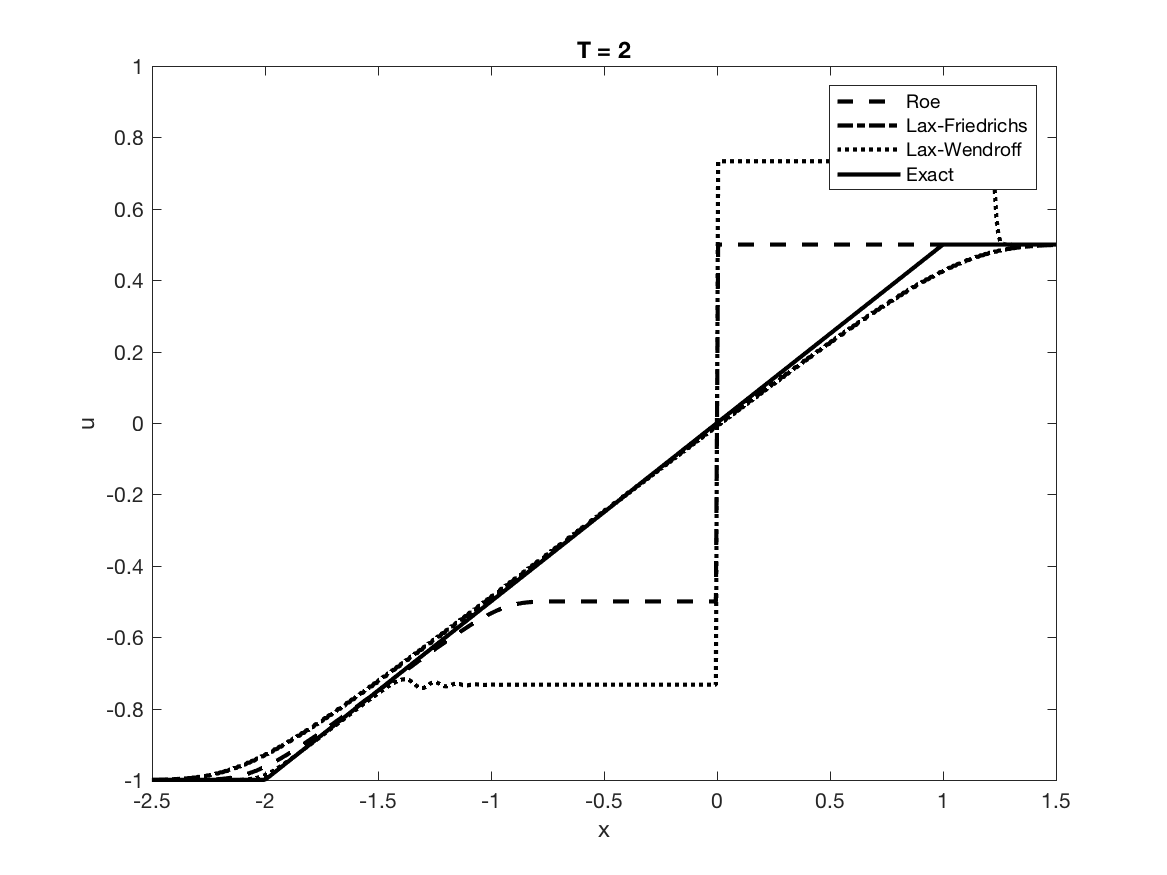
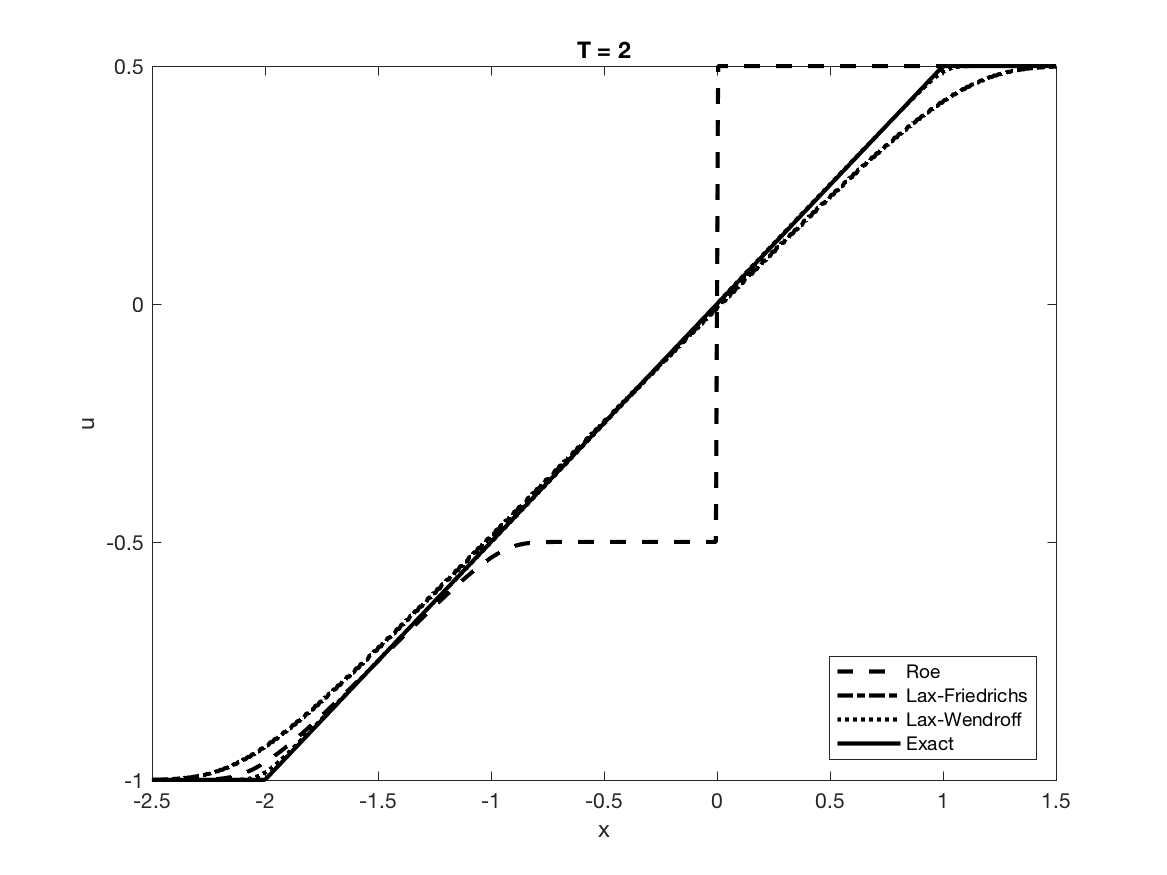
wrote two alternative laxWendroff methods

diff --git a/Homework/H03.m b/Homework/H03.m
@@ -2,7 +2,7 @@
 f = @(u) (0.5*u^2);
 df = @(u) u;
 %u0func = @(x) 1.0*(x <= 0.0) - 0.5*(x > 0.0);
-u0func = @(x) -1.0*(x <= 0.0) + 0.5*(x > 0.0);
+u0func = @(x) -1.0*(x < 0.0) + 0.0*(x == 0.0) + 0.5*(x > 0.0);
 deltaX = 0.01;
 a = -5.0;
 b = 5.0;
@@ -16,9 +16,10 @@ tFinal = 2;
 nTimeSteps = tFinal/deltaT;
 
 uExactFunc = @(x, t) -1.0*(x <= -t) + (x/t)*(x > -t && x < 0.5*t) + 0.5*(x >= 0.5*t);
+%uExactFunc = @(x, t) 1.0*(x <= 0.25*t) - 0.5*(x >= 0.25*t);
 roeSol = roe(f, u0, deltaT, deltaX, nTimeSteps);
 laxFriedrichsSol = laxFriedrichs(f, u0, deltaT, deltaX, nTimeSteps);
-laxWendroffSol = laxWendroff(f, df, u0, deltaT, deltaX, nTimeSteps);
+laxWendroffSol = richtmyer(f, u0, deltaT, deltaX, nTimeSteps);
 
 uExactSol = arrayfun(@(xj) uExactFunc(xj, tFinal), x);
 plot(x, roeSol(nTimeSteps+1,:), 'k--', x, laxFriedrichsSol(nTimeSteps+1,:), 'k-.', x, laxWendroffSol(nTimeSteps+1,:), 'k:', x, uExactSol, 'k-','LineWidth',2);
@@ -27,5 +28,5 @@ ylabel('u');
 %xlim([0.4, 0.6]);
 xlim([-2.5, 1.5]);
 title('T = 2');
-legend('Roe', 'Lax-Friedrichs', 'Lax-Wendroff', 'Exact');
+legend('Roe', 'Lax-Friedrichs', 'Lax-Wendroff', 'Exact', 'Location', 'southeast');
 saveas(gcf, 'Figures/02_01.png', 'png');

diff --git a/Homework/richtmyer.m b/Homework/richtmyer.m
@@ -1,0 +1,38 @@
+function [u] = richtmyer(f, u0, deltaT, deltaX, nTimeSteps)
+    nGridCells = length(u0);
+    u = zeros(nTimeSteps+1, nGridCells);
+    u(1, :) = u0;
+
+    a = deltaT/deltaX;
+    b = 0.5 * deltaT/deltaX;
+
+    F = zeros(nGridCells,1);
+    Uhalf = zeros(nGridCells,1);
+
+    for n = 1:nTimeSteps
+        % Fluxes
+        for j = 1:nGridCells
+            F(j) = f(u(n, j));
+        end
+
+        % Uhalf
+        % Uhalf(j) = U^(n+1/2)_(j+1/2)
+        for j = 1:nGridCells-1
+            Uhalf(j) = 0.5*(u(n, j)+u(n,j+1)) - b*(F(j+1) - F(j));
+        end
+        % zero flux boundary conditions
+        Uhalf(nGridCells) = u(n, nGridCells);
+
+        % Ustar Fluxes
+        for j = 1:nGridCells-1;
+            F(j) = f(Uhalf(j));
+        end
+
+        % update solution
+        % zero flux boundary condition
+        u(n+1, 1) = u(n, 1);
+        for j = 2:nGridCells
+            u(n+1,j) = u(n, j) - a*(F(j) - F(j-1));
+        end
+    end
+end

diff --git a/Homework/maccormack.m b/Homework/maccormack.m
@@ -1,0 +1,37 @@
+function [u] = maccormack(f, u0, deltaT, deltaX, nTimeSteps)
+    nGridCells = length(u0);
+    u = zeros(nTimeSteps+1, nGridCells);
+    u(1, :) = u0;
+
+    a = deltaT/deltaX;
+    b = 0.5 * deltaT/deltaX;
+
+    F = zeros(nGridCells,1);
+    Ustar = zeros(nGridCells,1);
+
+    for n = 1:nTimeSteps
+        % Fluxes
+        for j = 1:nGridCells
+            F(j) = f(u(n, j));
+        end
+
+        % Ustar
+        for j = 1:nGridCells-1
+            Ustar(j) = u(n, j) - a*(F(j+1) - F(j));
+        end
+        % zero flux boundary conditions
+        Ustar(nGridCells) = u(n, nGridCells);
+
+        % Ustar Fluxes
+        for j = 1:nGridCells-1;
+            F(j) = f(Ustar(j));
+        end
+
+        % update solution
+        % zero flux boundary condition
+        u(n+1, 1) = 0.5*(u(n, 1) + Ustar(1));
+        for j = 2:nGridCells
+            u(n+1,j) = 0.5*(u(n, j) + Ustar(j)) - b*(F(j) - F(j-1));
+        end
+    end
+end

diff --git a/Homework/laxWendroff.m b/Homework/laxWendroff.m
@@ -18,7 +18,17 @@ function [u] = laxWendroff(f, df, u0, deltaT, deltaX, nTimeSteps)
             end
 
             % update
-            u(n+1, j) = u(n, j) - a*(f(u(n,jp1)) - f(u(n,jm1))) + b*(df(0.5*(u(n,j) + u(n,jp1)))*(f(u(n,jp1)) - f(u(n,j))) - df(0.5*(u(n,j) + u(n,jm1)))*(f(u(n,j)) - f(u(n,jm1))));
+            % traditional laxWendroff
+            %Ap = df(0.5*(u(n, j) + u(n, jp1)));
+            %Am = df(0.5*(u(n, j) + u(n, jm1)));
+            %fc = f(u(n,jp1)) - f(u(n,jm1));
+            %fl = f(u(n,j)) - f(u(n,jm1));
+            %fr = f(u(n,jp1)) - f(u(n,j));
+            %u(n+1, j) = u(n, j) - a*fc + b*(Ap*fr - Am*fl);
+            
+            % MacCormack's Method
+            ustar
+
         end
     end
 end
